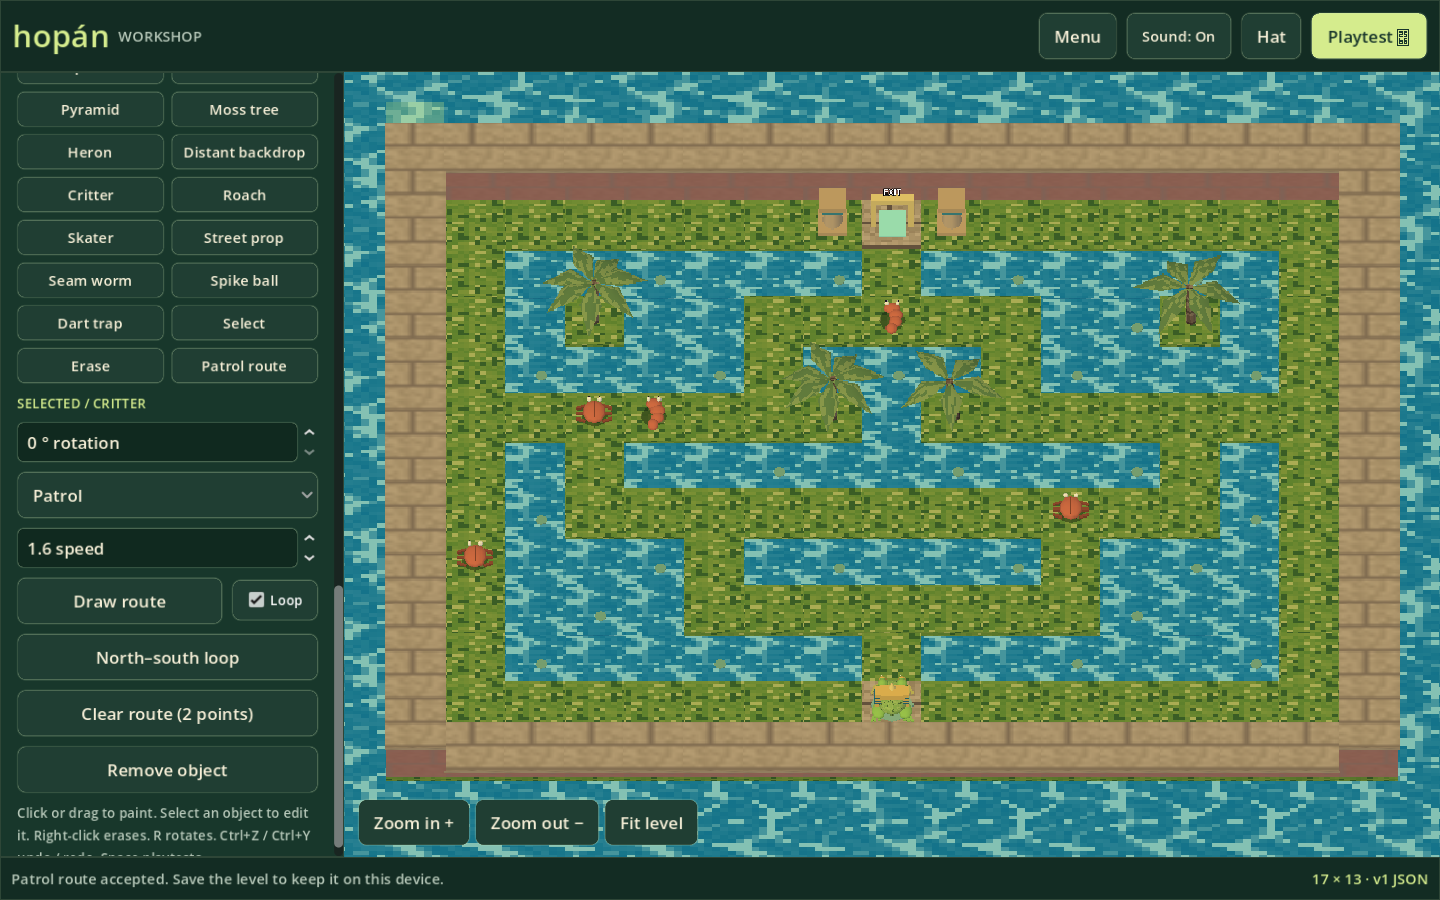
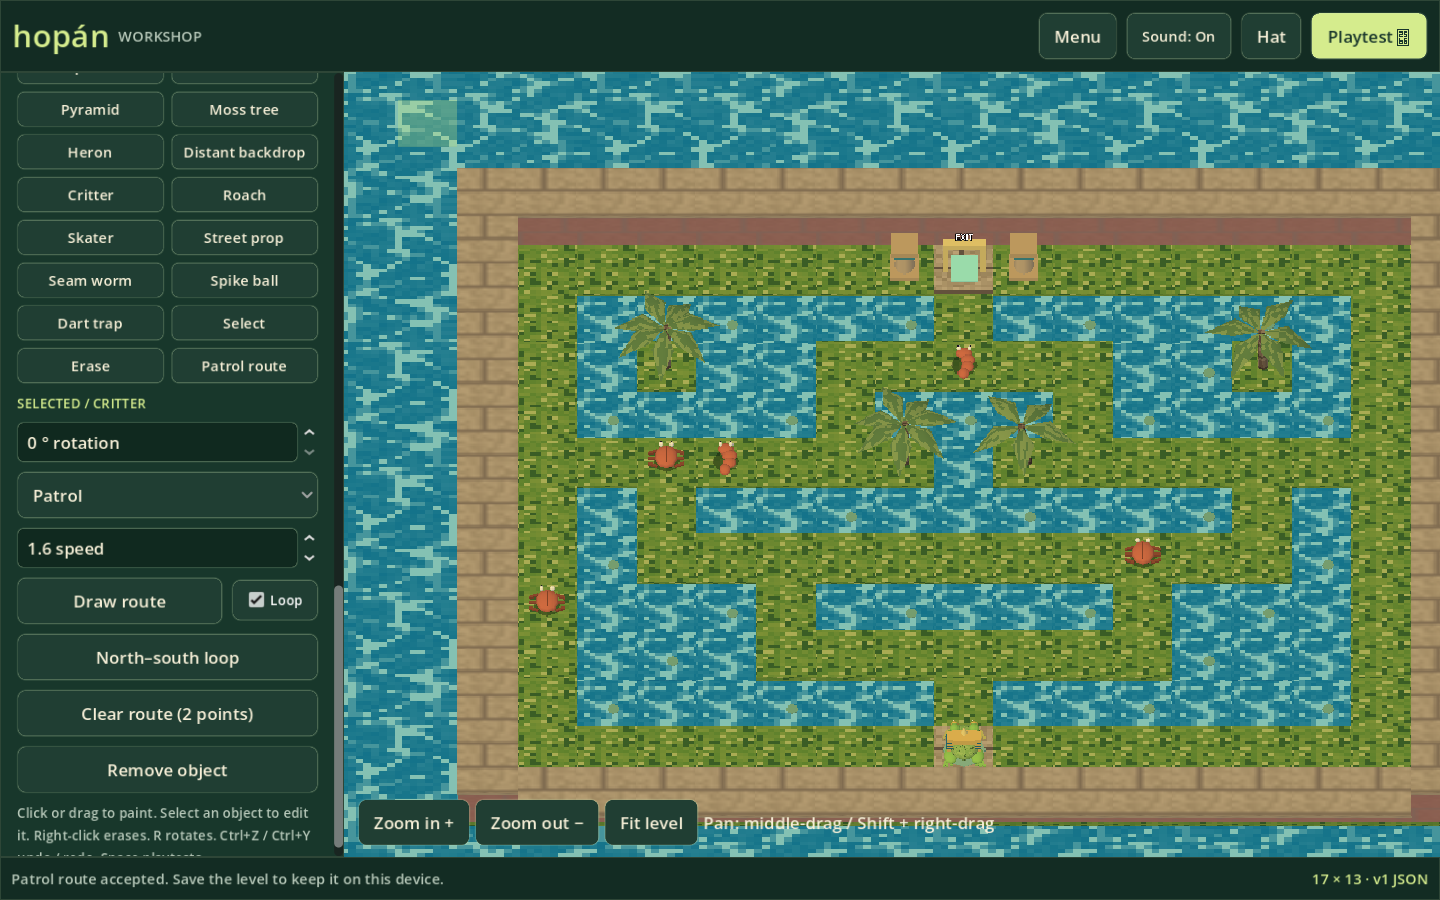
Add editor camera panning and prioritize patrol flags

diff --git a/docs/EDITOR_ROUTE_CONTROLS.md b/docs/EDITOR_ROUTE_CONTROLS.md
@@ -7,3 +7,17 @@ Patrol route mode draws constant-size numbered flags and high-contrast connectin
 The editor offers **Zoom in +**, **Zoom out −** and **Fit level**, plus mouse-wheel zoom over the 3D view. Zoom is centred on the level, bounded to 0.35–3 times its fitted scale and retained across editor rebuilds. It does not change the play camera. Flags retain 16 px text, 24 px flag height and 3 px route lines as the view scales. Points outside the visible viewport are clipped, rather than incorrectly shown at a different map location.
 
 Eight native checks verify projected waypoint presence, Accept visibility/data retention, zoom and zoom restoration, deselection cleanup and retained zoom across rebuilds. The previous ten playtest-return checks still pass. The browser test places a critter, draws a patrol through normal UI inputs, operates zoom controls and accepts the route, without captured errors. Screenshots in `docs/editor-route-controls/` were visually inspected. Physical touch devices and dense clusters of many overlapping flags remain untested.
+
+### Camera dragging and occupied route cells
+
+Middle-drag or Shift + right-drag pans the editor camera at its current zoom.
+Right-click retains erase. Fit level resets both pan and zoom. Rebuilds retain pan;
+focus loss releases the drag. The shortcut is visible beside the zoom buttons.
+Route annotations explicitly draw at UI z-index 100 and ignore mouse input, so
+terrain and scenery cannot occlude them or consume waypoint clicks. Occupied dry
+cells remain available to routes subject to each actor's existing path rules.
+This does not make walls or water traversable.
+
+Verification: 13 native route/camera checks, the existing 10 playtest-return
+checks, and an actual Chromium middle-drag/route/accept flow. See `panned.png`.
+Software rendering is not physical mouse or touch hardware verification.
